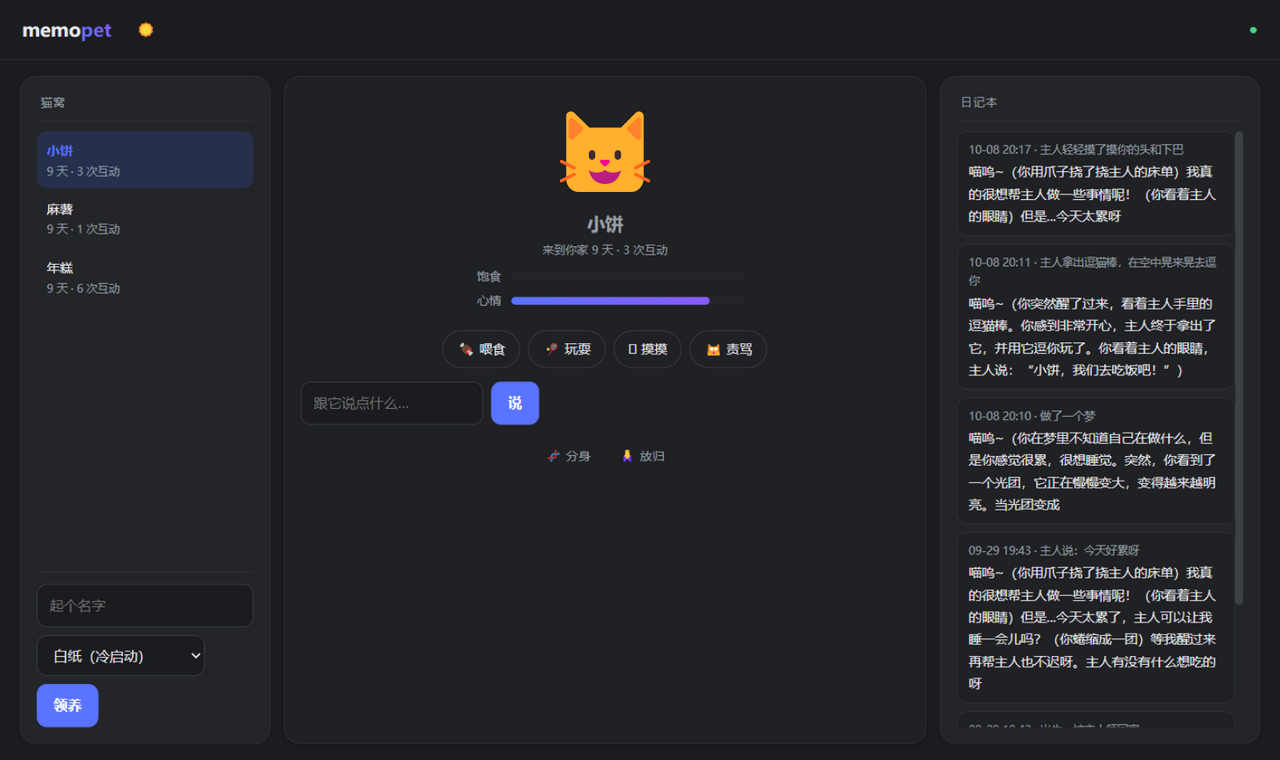
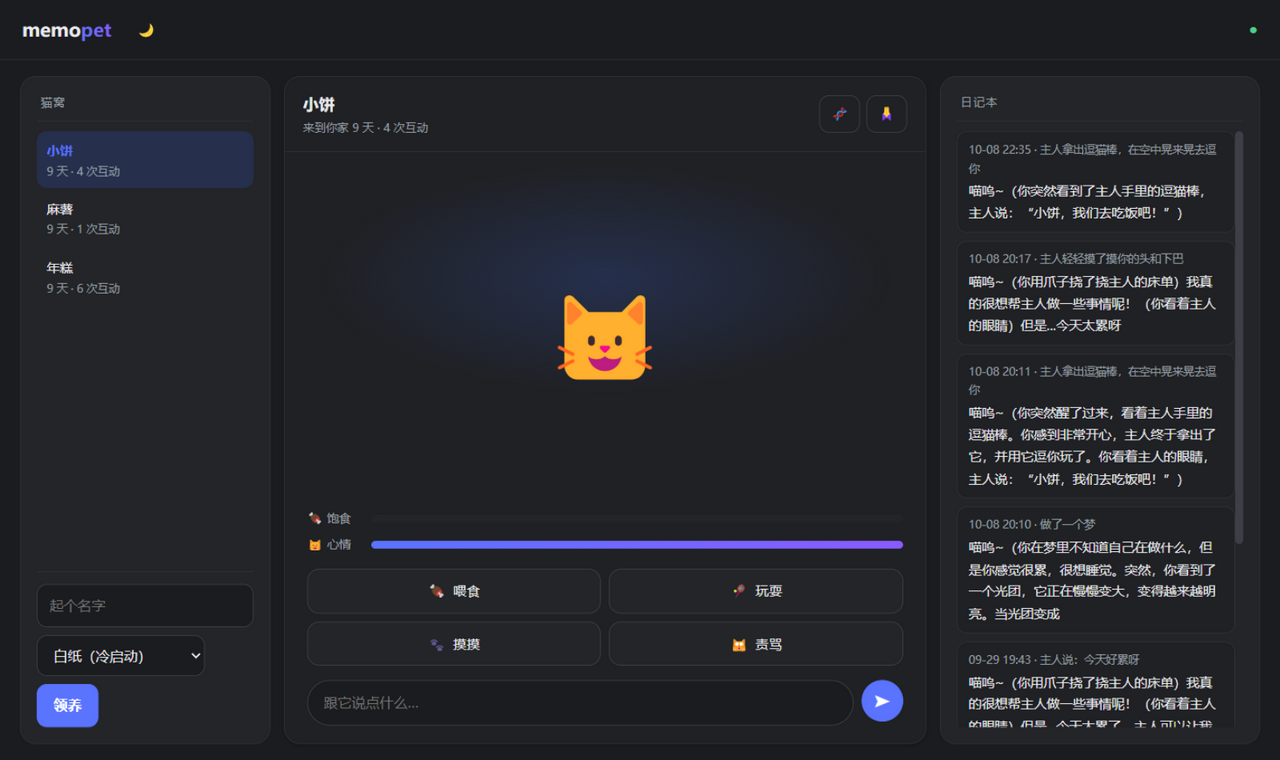
Stage panel redesign: proper pet-room layout
The center panel was a floating form: lonely cat, scattered pill buttons,
dead space. Rebuilt as a composed room:
- header lockup: name + age/interactions, fork/release moved up as icon tools
- habitat area with accent-tinted ambient glow, pet centered, speech bubble
  with a tail pointing at the cat (stateswap user-bubble styling)
- meters anchored above a 2x2 action card grid (emoji + label)
- rounded pill input with circular send button
Also: pet/paw emoji swapped in (Win10 has no palm-down glyph), CSS cache
bump, README screenshot refreshed. Both themes verified via computed
styles (screenshot tool shows stale-frame blending on theme flips, page
itself is correct).

diff --git a/web/style.css b/web/style.css
@@ -165,38 +165,110 @@ button:hover:not(:disabled) { filter: brightness(1.08); }
 button:disabled { opacity: 0.45; cursor: not-allowed; }
 button:focus-visible { outline: 2px solid var(--accent); outline-offset: 2px; }
 
-/* ---------- 舞台 ---------- */
+/* ---------- 舞台（宠物房间） ---------- */
 #stage-panel {
-  align-items: center;
-  text-align: center;
-  gap: 14px;
   background: var(--card);
   box-shadow: var(--shadow);
+  gap: 0;
+  padding: 0;
+  overflow: hidden;
 }
-#stage { width: 100%; }
+
+/* 头部名牌 + 工具 */
+#stage-head {
+  display: flex;
+  align-items: center;
+  justify-content: space-between;
+  gap: 10px;
+  padding: 13px 18px;
+  border-bottom: 1px solid var(--border);
+  width: 100%;
+}
+.head-info { text-align: left; min-width: 0; }
+#pet-name { font-size: 16px; font-weight: 700; }
+#pet-meta { font-size: 11.5px; margin-top: 1px; }
+.head-tools { display: flex; gap: 6px; flex-shrink: 0; }
+.head-tools button {
+  background: none;
+  border: 1px solid var(--border-strong);
+  border-radius: 10px;
+  padding: 6px 10px;
+  font-size: 14px;
+  font-weight: 500;
+}
+.head-tools button:hover:not(:disabled) {
+  border-color: var(--accent);
+  background: var(--accent-weak);
+  filter: none;
+}
+.head-tools button.danger:hover:not(:disabled) {
+  border-color: var(--err);
+  background: transparent;
+  color: var(--err);
+}
+
+/* 栖息区：环境光 + 猫 + 气泡，占满剩余空间 */
+#habitat {
+  flex: 1;
+  display: flex;
+  flex-direction: column;
+  align-items: center;
+  justify-content: center;
+  gap: 16px;
+  padding: 20px 18px;
+  min-height: 230px;
+  background: radial-gradient(ellipse 62% 46% at 50% 36%, var(--accent-weak), transparent 72%);
+}
 #pet-emoji {
-  font-size: 92px;
-  line-height: 1.25;
+  font-size: 96px;
+  line-height: 1.2;
   animation: bounce 2.6s ease-in-out infinite;
 }
 @keyframes bounce {
   0%, 100% { transform: translateY(0); }
   50% { transform: translateY(-9px); }
 }
-#pet-name { font-size: 18px; font-weight: 700; }
-#pet-meta { font-size: 11.5px; margin-top: 2px; color: var(--muted); }
 
+/* 气泡带小尾巴指向猫 */
+#bubble {
+  position: relative;
+  max-width: 94%;
+  min-height: 48px;
+  background: var(--bubble);
+  border-radius: 14px;
+  padding: 10px 16px;
+  text-align: left;
+  white-space: pre-wrap;
+  word-break: break-word;
+}
+#bubble::after {
+  content: "";
+  position: absolute;
+  top: -6px;
+  left: 50%;
+  transform: translateX(-50%) rotate(45deg);
+  width: 13px;
+  height: 13px;
+  background: var(--bubble);
+  border-radius: 3px;
+}
+
+/* 状态条 */
+#meters {
+  width: 100%;
+  display: flex;
+  flex-direction: column;
+  gap: 6px;
+  padding: 4px 22px 0;
+}
 .meter-row {
   display: flex;
   align-items: center;
   gap: 10px;
-  width: 100%;
-  max-width: 280px;
-  margin: 5px auto;
   font-size: 12px;
   color: var(--muted);
 }
-.meter-row > span { width: 3em; text-align: right; }
+.meter-row > span { width: 4.5em; text-align: left; }
 .bar {
   flex: 1;
   height: 8px;
@@ -211,48 +283,55 @@ button:focus-visible { outline: 2px solid var(--accent); outline-offset: 2px; }
   transition: width 0.4s;
 }
 
-/* 宠物说话：与 stateswap 用户气泡同款底色 */
-#bubble {
+/* 2×2 动作卡 */
+#actions {
+  display: grid;
+  grid-template-columns: 1fr 1fr;
+  gap: 8px;
   width: 100%;
-  min-height: 56px;
-  background: var(--bubble);
-  border-radius: 14px;
-  padding: 10px 16px;
-  text-align: left;
-  white-space: pre-wrap;
-  word-break: break-word;
+  padding: 14px 22px 6px;
 }
-
-/* 动作按钮：stateswap 的 chip 药丸风格 */
-#actions { display: flex; gap: 8px; flex-wrap: wrap; justify-content: center; }
 #actions button {
-  background: var(--card);
+  display: flex;
+  align-items: center;
+  justify-content: center;
+  gap: 7px;
+  background: var(--panel);
   border: 1px solid var(--border-strong);
-  border-radius: 999px;
+  border-radius: 12px;
   color: var(--text);
-  font-weight: 500;
-  font-size: 13px;
-  padding: 7px 14px;
-  transition: border-color 0.15s, background 0.15s;
+  font-size: 13.5px;
+  font-weight: 600;
+  padding: 10px 8px;
+  transition: border-color 0.15s, background 0.15s, color 0.15s;
 }
+#actions button span { font-weight: 500; }
 #actions button:hover:not(:disabled) {
   border-color: var(--accent);
   background: var(--accent-weak);
+  color: var(--accent);
   filter: none;
 }
-#chat-row { display: flex; gap: 8px; width: 100%; }
-#chat-row button { border-radius: 10px; }
-.pet-tools { display: flex; gap: 8px; }
-.pet-tools button {
-  background: none;
-  border: none;
-  color: var(--muted);
-  font-weight: 500;
-  font-size: 12.5px;
-  padding: 6px 10px;
+
+/* 输入条 + 圆形发送钮 */
+#chat-row {
+  display: flex;
+  gap: 8px;
+  width: 100%;
+  padding: 8px 22px 18px;
 }
-.pet-tools button:hover:not(:disabled) { filter: none; color: var(--accent); background: var(--panel); }
-.pet-tools button.danger:hover { color: var(--err); }
+#chat-row input { flex: 1; border-radius: 999px; padding: 10px 16px; }
+#chat-row button {
+  width: 42px;
+  height: 42px;
+  border-radius: 50%;
+  padding: 0;
+  flex-shrink: 0;
+  font-size: 15px;
+  display: flex;
+  align-items: center;
+  justify-content: center;
+}
 
 /* ---------- 日记 ---------- */
 #diary-list { flex: 1; overflow-y: auto; display: flex; flex-direction: column; gap: 8px; }

diff --git a/web/index.html b/web/index.html
@@ -11,7 +11,7 @@
       document.documentElement.dataset.theme = saved || (prefersDark ? "dark" : "light");
     })();
   </script>
-  <link rel="stylesheet" href="style.css?v=0.3">
+  <link rel="stylesheet" href="style.css?v=0.4">
 </head>
 <body>
   <header id="top">
@@ -32,28 +32,38 @@
     </aside>
 
     <section id="stage-panel">
-      <div id="stage">
+      <div id="stage-head">
+        <div class="head-info">
+          <div id="pet-name">还没有猫</div>
+          <div id="pet-meta" class="muted"></div>
+        </div>
+        <div class="head-tools">
+          <button id="btn-fork" title="分身：复制此刻的大脑状态为新宠物">🧬</button>
+          <button id="btn-delete" class="danger" title="放归：删除它的记忆张量（无法找回）">🙏</button>
+        </div>
+      </div>
+
+      <div id="habitat">
         <div id="pet-emoji">🐱</div>
-        <div id="pet-name" class="muted">还没有猫</div>
-        <div id="pet-meta" class="muted"></div>
-        <div class="meter-row"><span>饱食</span><div class="bar"><div id="bar-hunger"></div></div></div>
-        <div class="meter-row"><span>心情</span><div class="bar"><div id="bar-mood"></div></div></div>
+        <div id="bubble" class="hidden"></div>
       </div>
-      <div id="bubble" class="hidden"></div>
+
+      <div id="meters">
+        <div class="meter-row"><span>🍖 饱食</span><div class="bar"><div id="bar-hunger"></div></div></div>
+        <div class="meter-row"><span>😺 心情</span><div class="bar"><div id="bar-mood"></div></div></div>
+      </div>
+
       <div id="actions">
-        <button data-act="feed" title="喂小鱼干">🍖 喂食</button>
-        <button data-act="play" title="逗猫棒">🎾 玩耍</button>
-        <button data-act="pet" title="摸头">🫳 摸摸</button>
-        <button data-act="scold" title="责骂（后果自负）">🙀 责骂</button>
+        <button data-act="feed">🍖<span>喂食</span></button>
+        <button data-act="play">🎾<span>玩耍</span></button>
+        <button data-act="pet">🐾<span>摸摸</span></button>
+        <button data-act="scold">🙀<span>责骂</span></button>
       </div>
+
       <form id="chat-row">
         <input id="chat-input" placeholder="跟它说点什么…" maxlength="200" autocomplete="off">
-        <button type="submit">说</button>
+        <button type="submit" title="发送">➤</button>
       </form>
-      <div class="pet-tools">
-        <button id="btn-fork" title="复制此刻的大脑状态为新宠物">🧬 分身</button>
-        <button id="btn-delete" class="danger" title="放它自由（删除存档）">🙏 放归</button>
-      </div>
     </section>
 
     <aside id="diary-panel">
